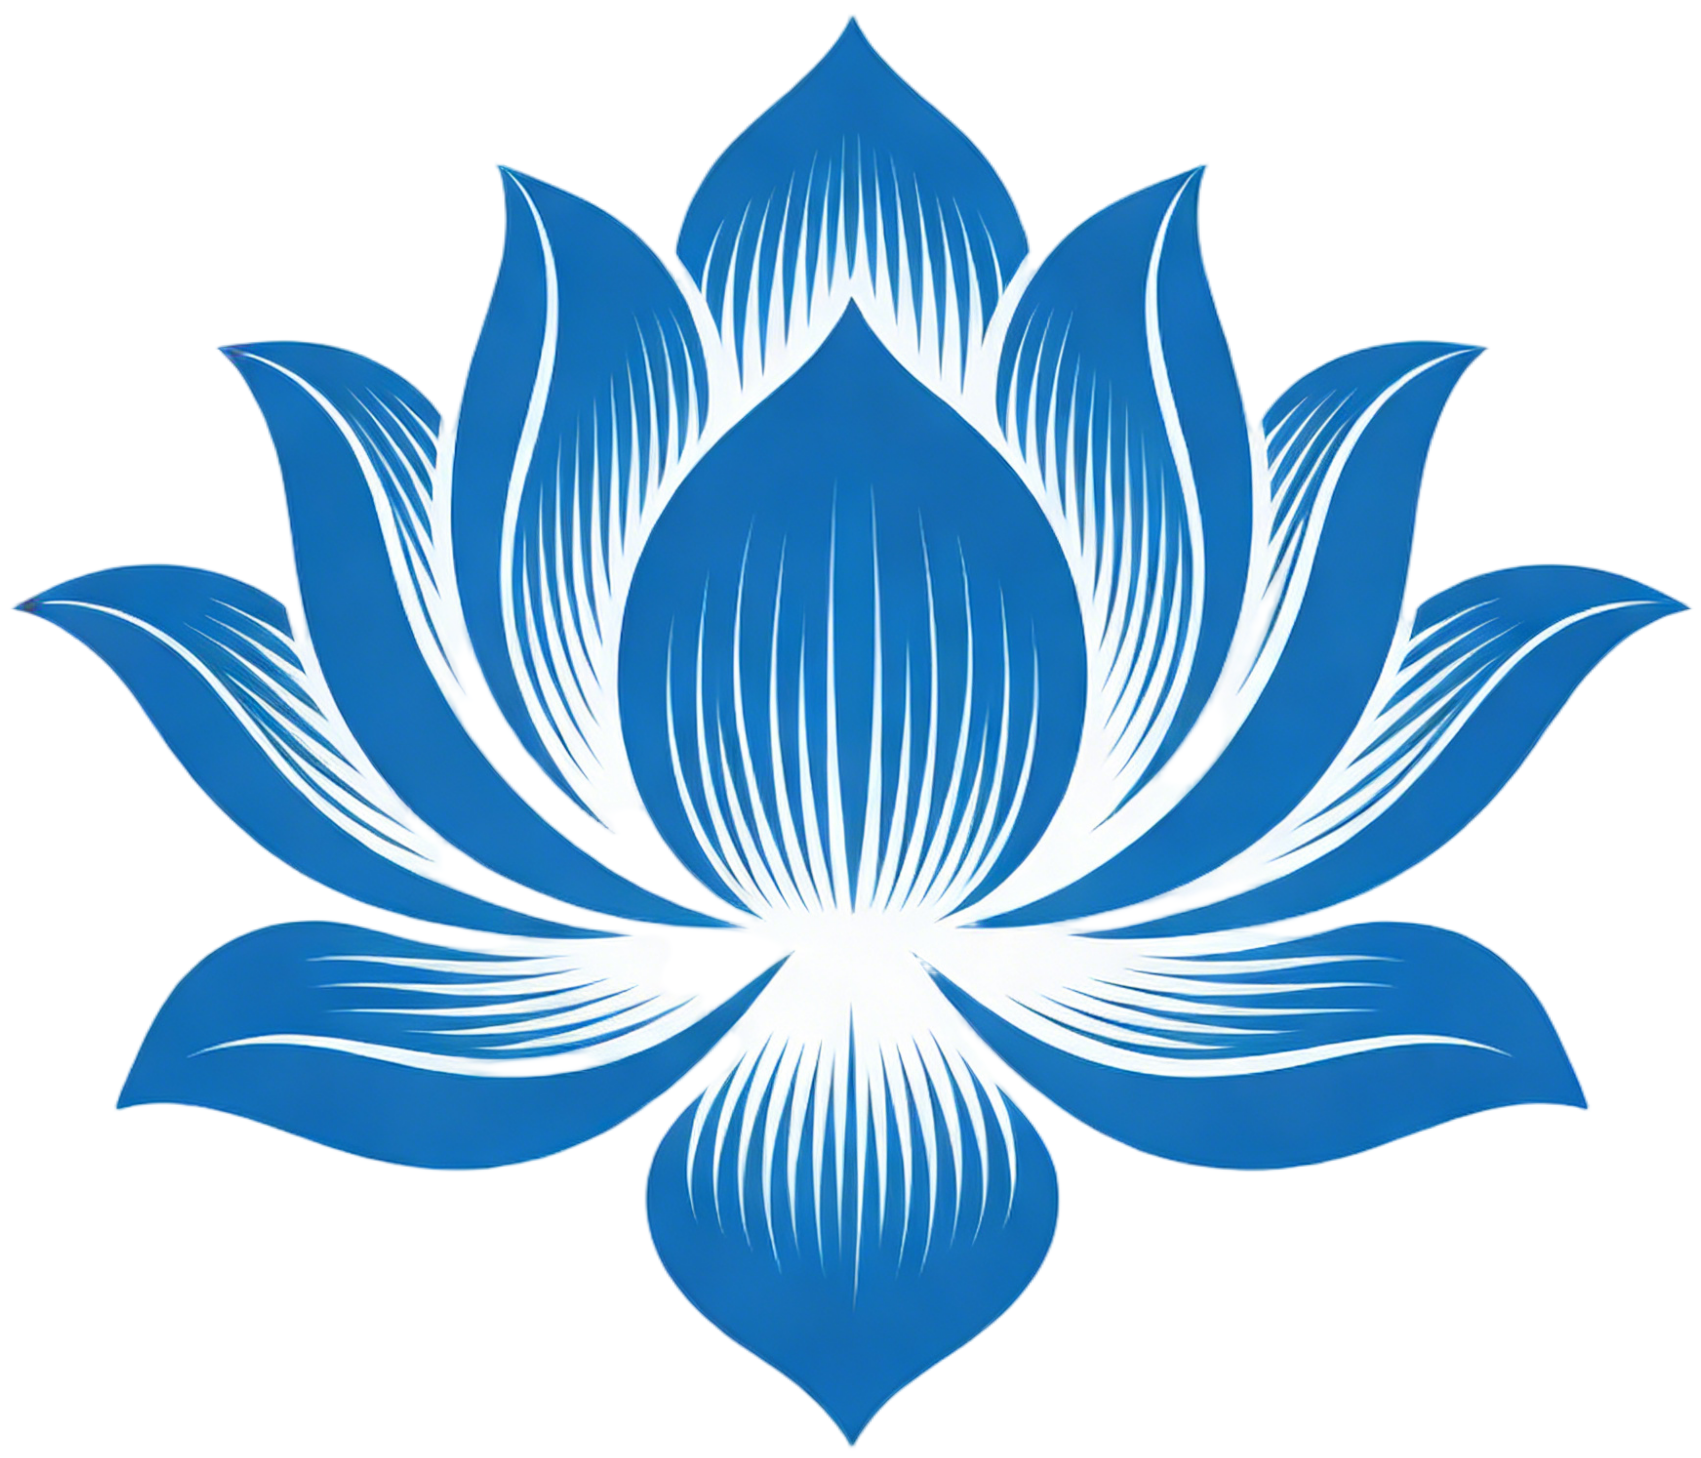
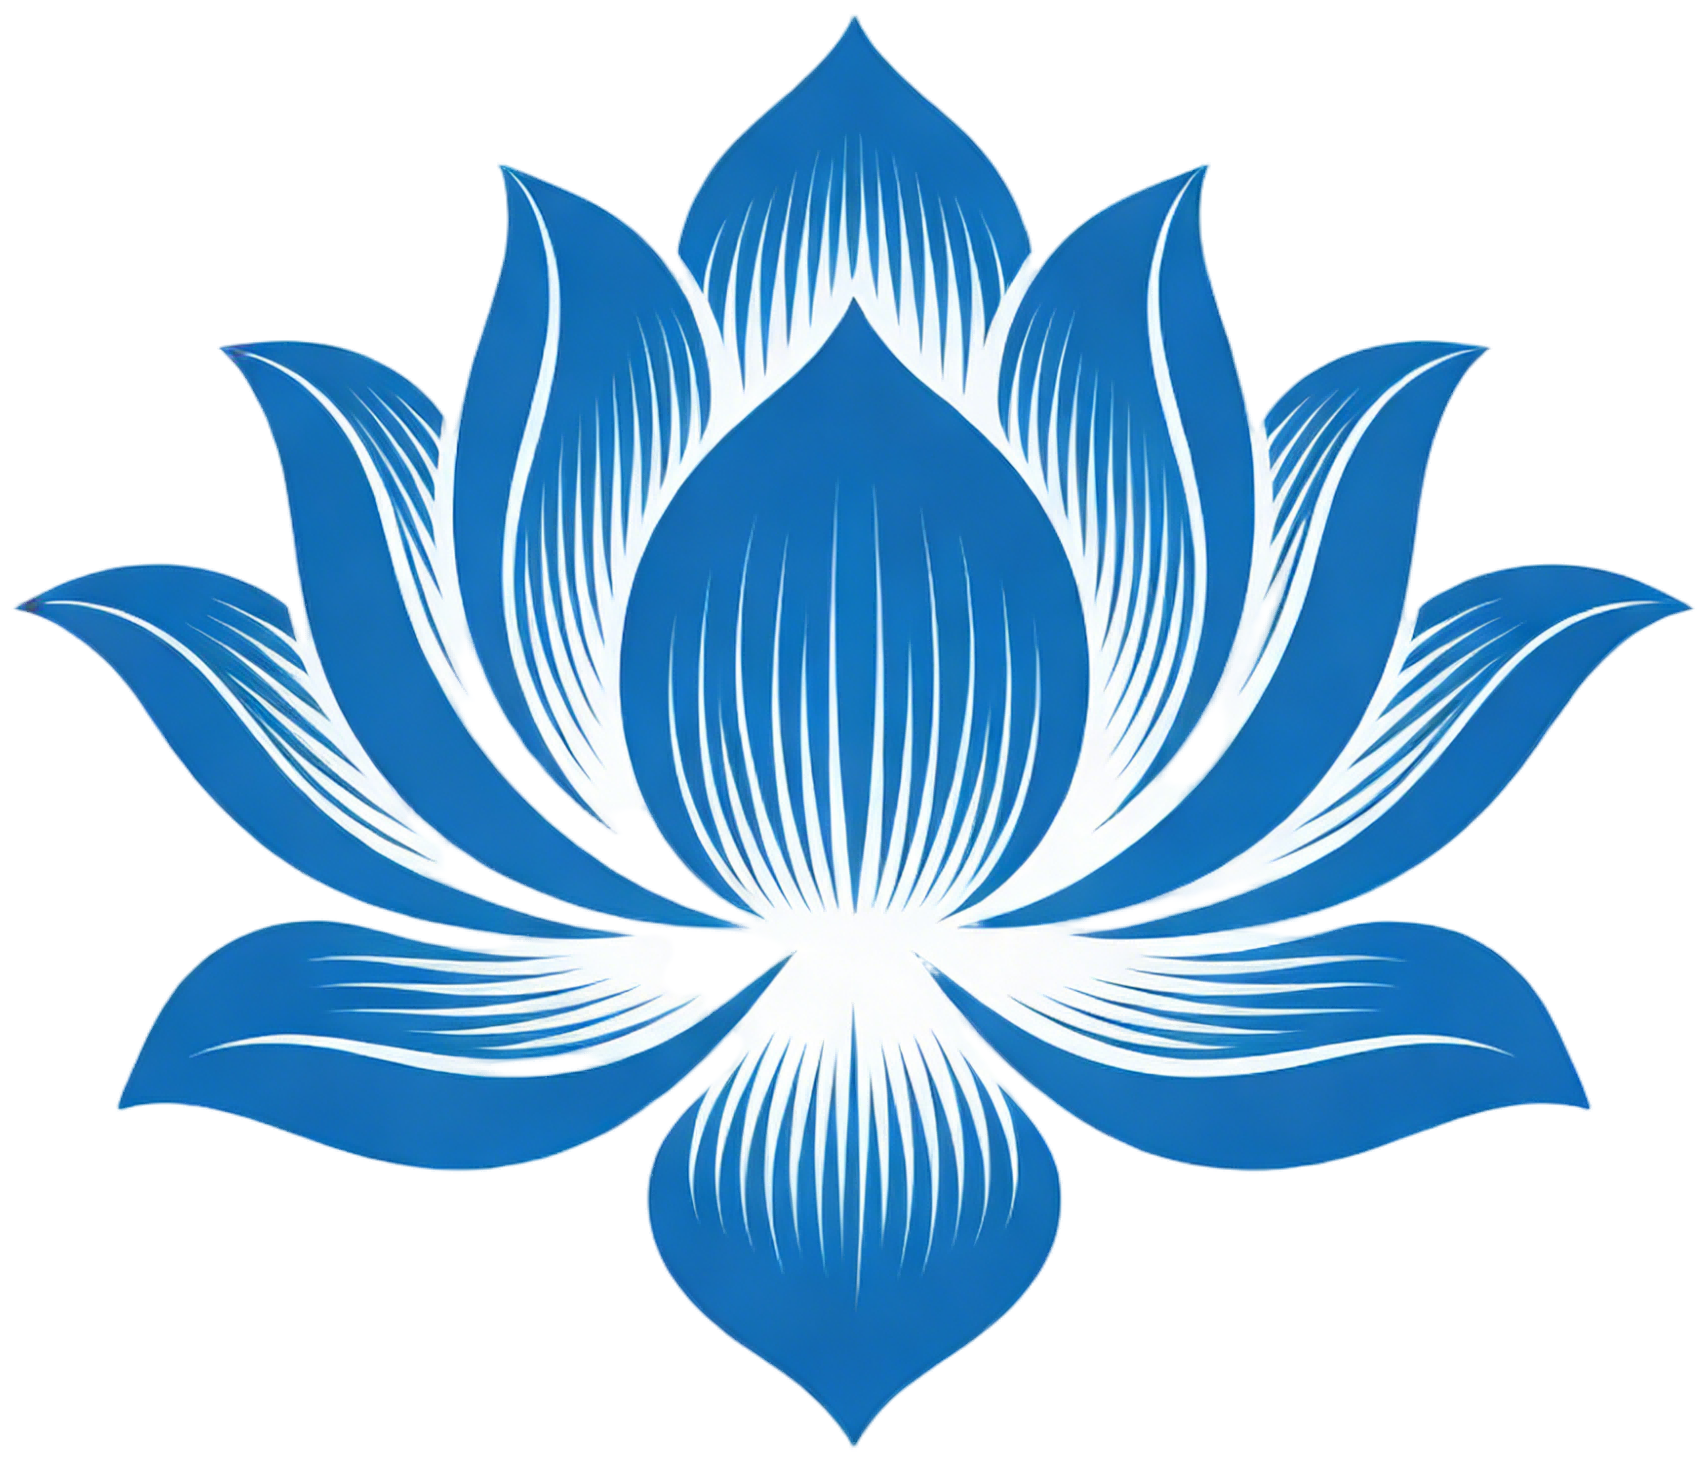
optimize cache

diff --git a/backend/app.js b/backend/app.js
@@ -28,8 +28,11 @@ app.use((req, res, next) => {
   next();
 });
 
-// 静态文件服务 - 背景图片
-app.use('/images', express.static(path.join(__dirname, 'images')));
+// 静态文件服务 - 背景图片（强缓存30天）
+app.use('/images', express.static(path.join(__dirname, 'images'), {
+  maxAge: '30d',
+  immutable: true,
+}));
 
 // 路由挂载
 app.use('/api/auth', require('./routes/auth'));
